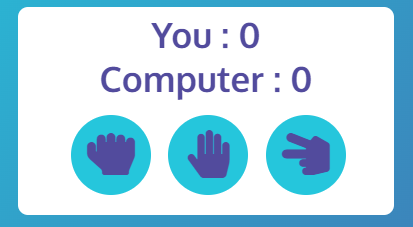
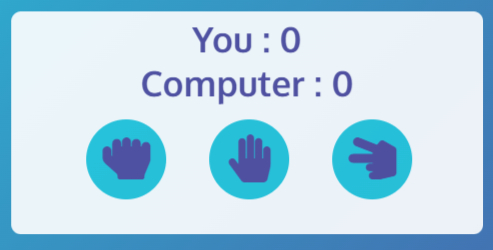
update readme images

diff --git a/assets/css/style.css b/assets/css/style.css
@@ -212,7 +212,7 @@ body {
 	.logo {
 	position: absolute;
 	left: 50%;
-	transform: translate(-150%, 295%);
+	transform: translate(-150%, 280%);
 	}
 
 	.logo img {

diff --git a/README.md b/README.md
@@ -91,7 +91,7 @@ I would also like to add a 4rd selection of Spock.
 * Once the user selection is made, the javascript code generates a random  option for the computer choice , compares the user and computer choice , and incremenets the score by 1 , depending on the winner.
 * A message appears under the buttons after each score which clearly states the user choice and computer choice , and a result messages <br>
 
- ![User Win](./read-me/usercorrectchoicescreenREADME.png) ![Computer Win](./read-me/computercorrectchoicescreenREADME.png)
+ ![User Win](./read-me/usercorrectchoicescreemREADME.png) ![Computer Win](./read-me/compcorrectchoicescreenREADME.png) ![Draw](./read-me/drawselectionREADME.PNG)
 
 * Once the user or computer reachs a score of 5 , the game is over , a winning or loosing message is displayed onscreen, and there is an option to play again by selecting the play again button <br>
 
